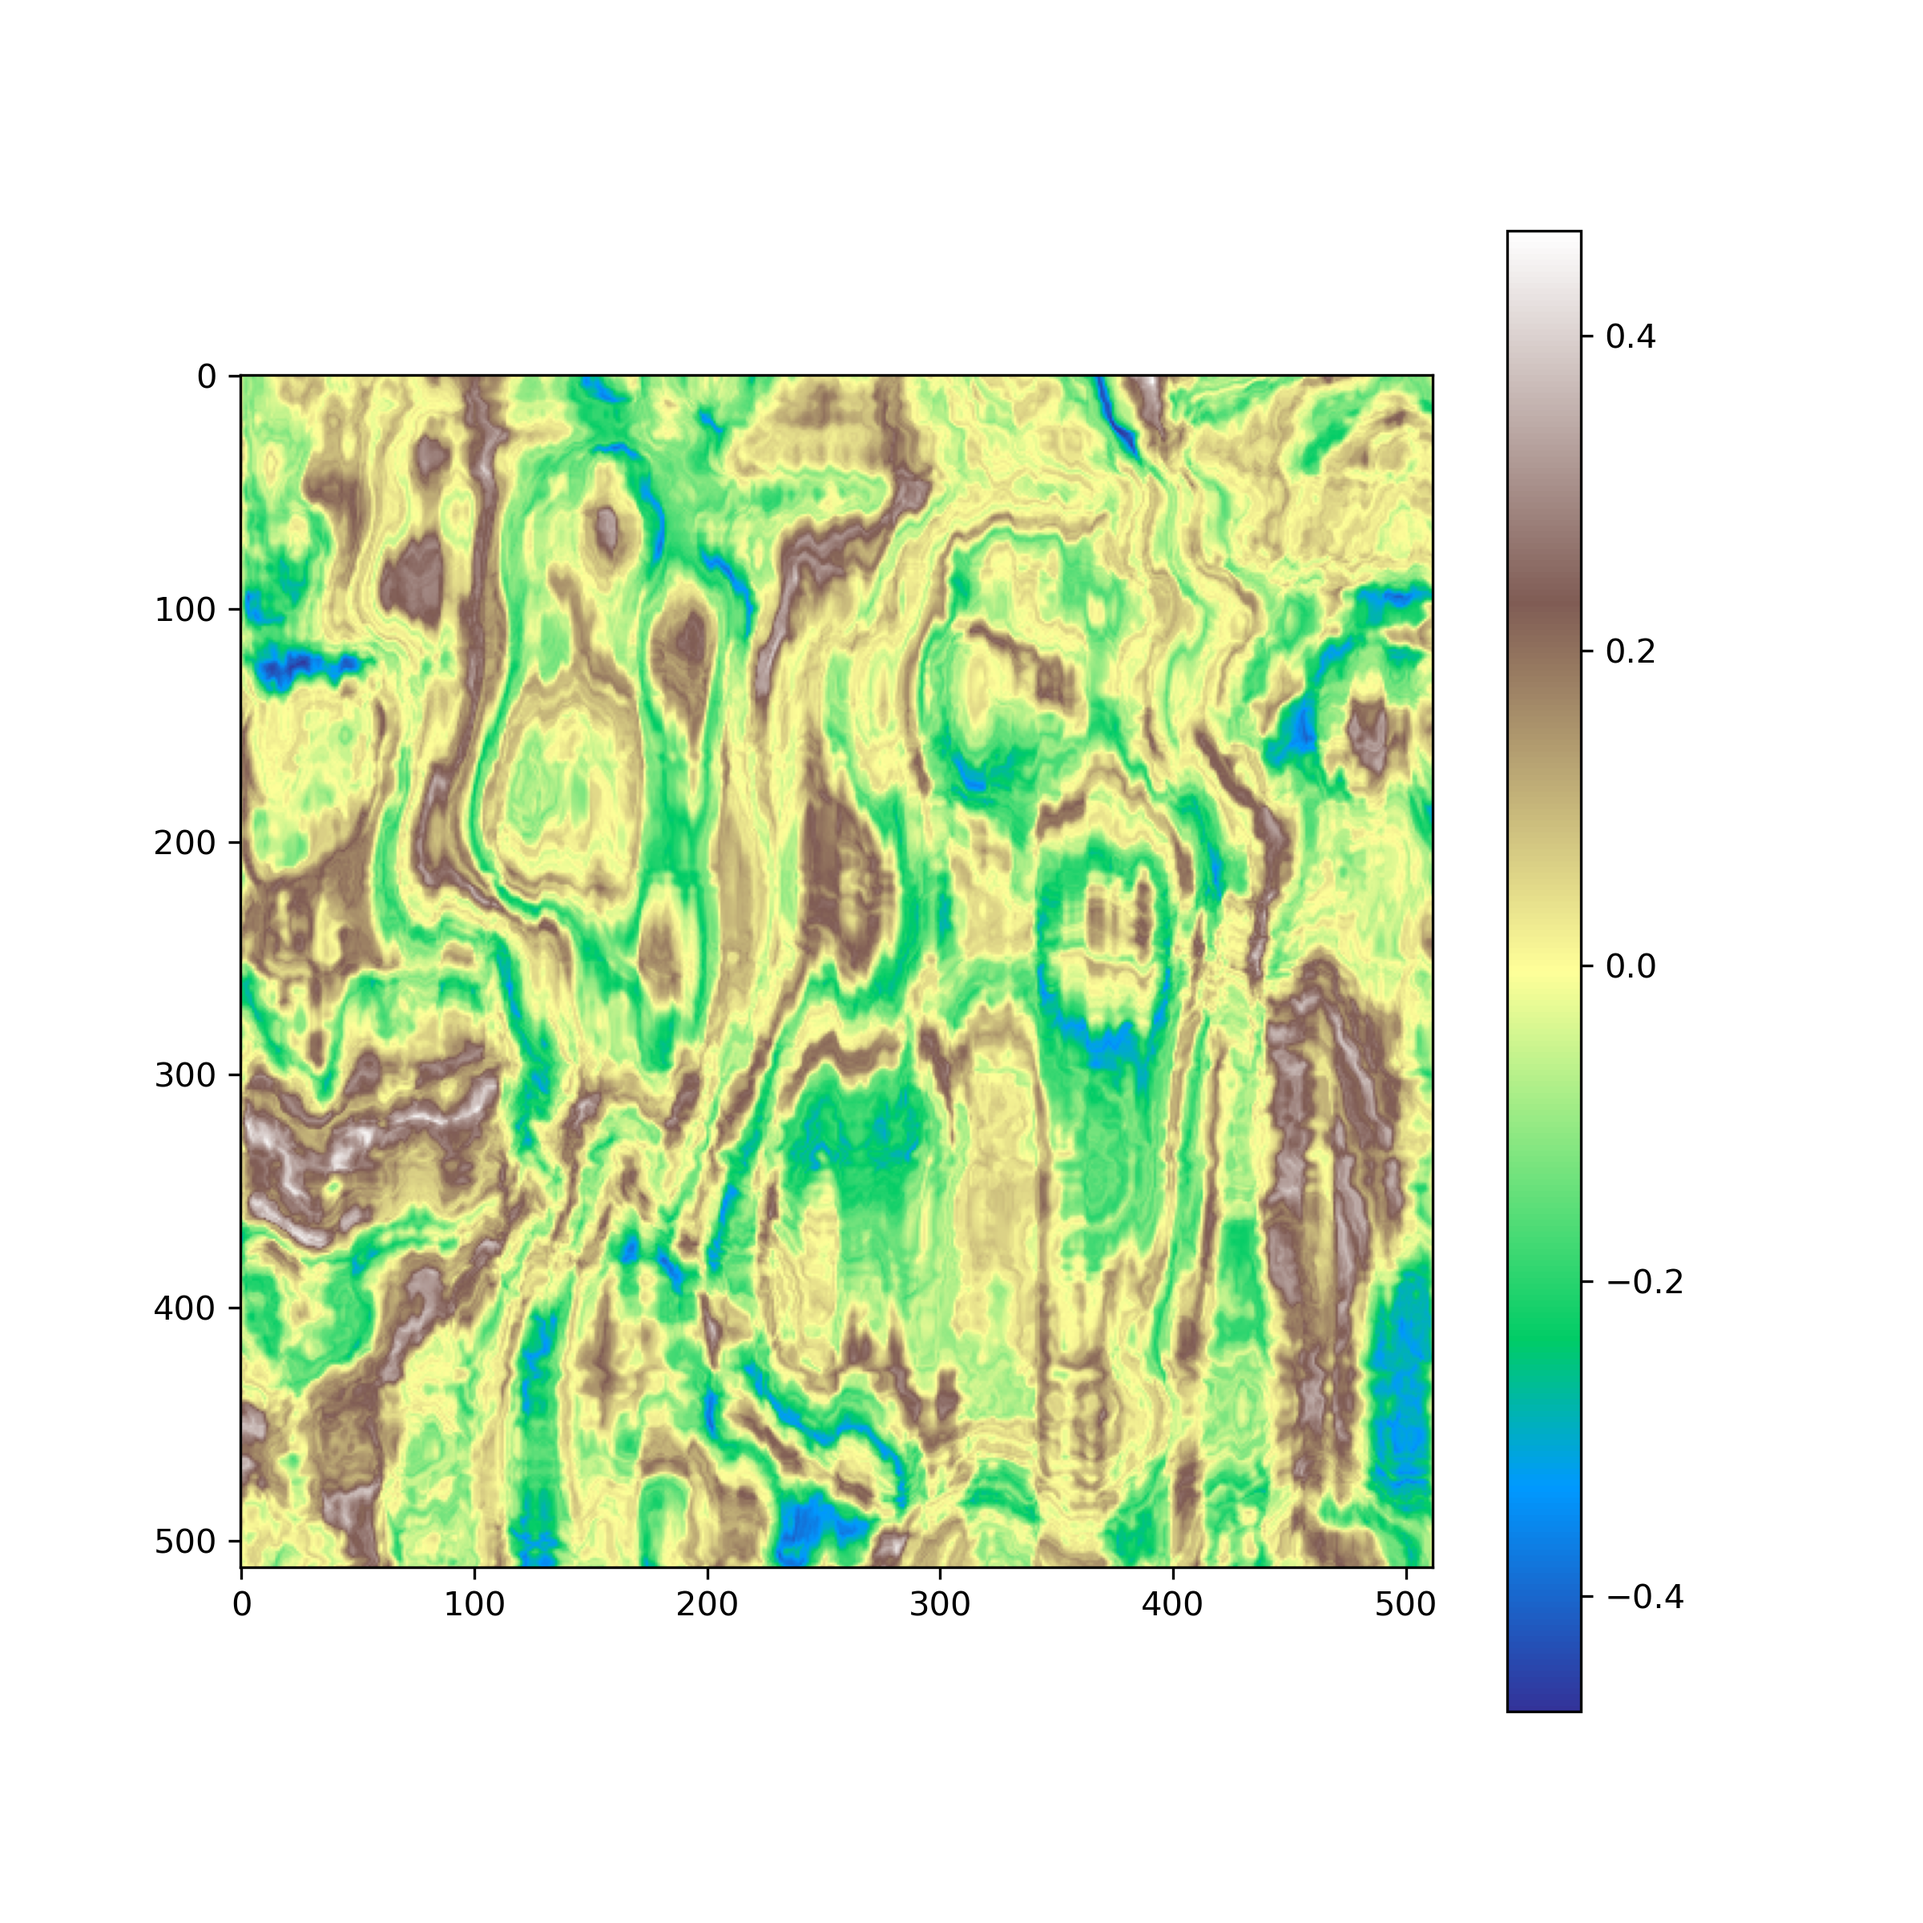
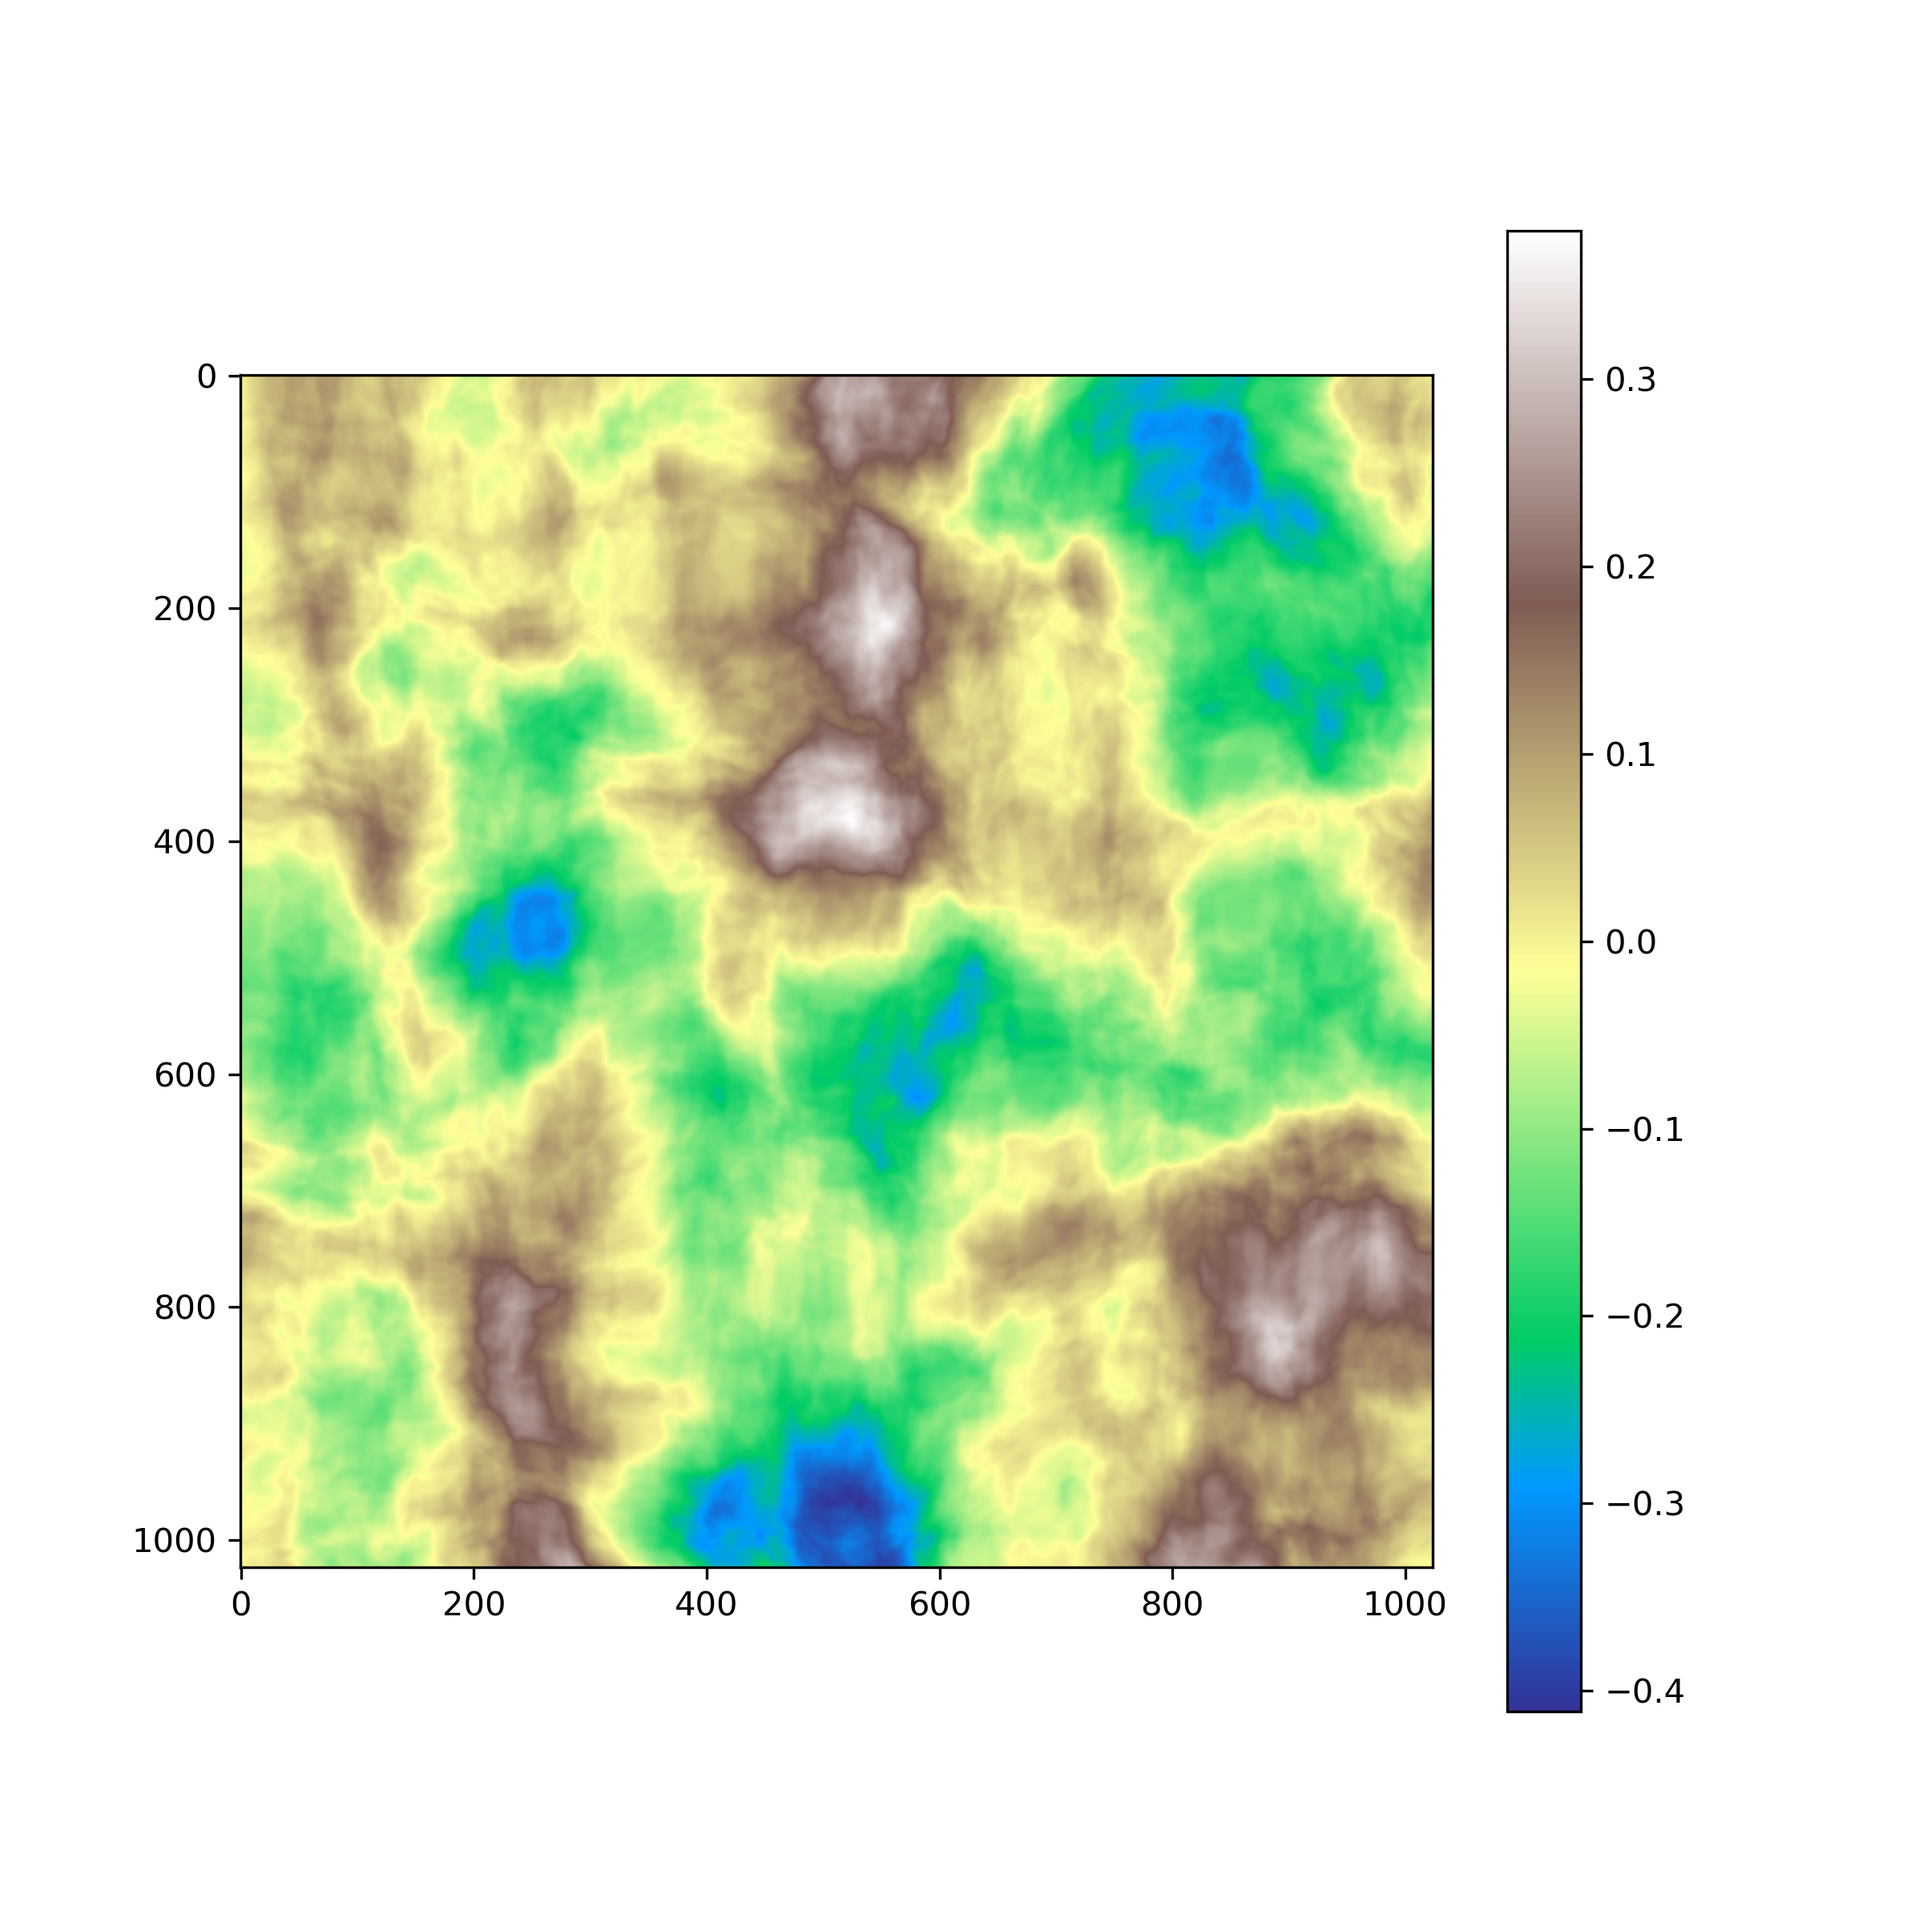
fiddled params

diff --git a/terrain.py b/terrain.py
@@ -6,7 +6,7 @@ import cv2
 from typing import List,Tuple
 
 def create_terrain(rng:np.random.Generator)->np.ndarray:
-    size=512
+    size=1024
     terrain=np.zeros((size,size))
     bases=rng.integers(2**16,size=3,dtype=np.uint16)
     for y in range(size):
@@ -15,9 +15,11 @@ def create_terrain(rng:np.random.Generator)->np.ndarray:
             ny=y/size
             wx=pnoise2(nx*3,ny*3,octaves=6,base=bases[0])
             wy=pnoise2(nx*3+5,ny*3+5,octaves=6,base=bases[1])
-            nx2=nx+0.8*wx
-            ny2=ny+0.8*wy
-            elevation=pnoise2(nx2*8,ny2*8,octaves=6,base=bases[2])
+            nx2=nx+0.1*wx
+            ny2=ny+0.1*wy
+            #elevation=pnoise2(nx2*8,ny2*8,octaves=6,base=bases[2])
+            elevation=pnoise2(nx2*3,ny2*3,octaves=6,base=bases[2])
+            #elevation=pnoise2(nx,ny,octaves=6,base=bases[2])
             terrain[y,x]=elevation
     #terrain=gaussian_filter(terrain,4,mode="wrap")
     return terrain
